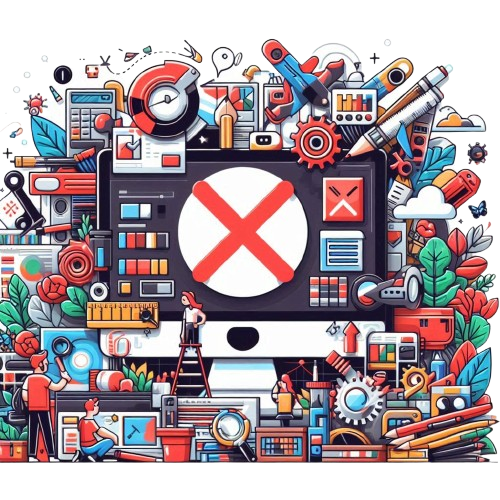
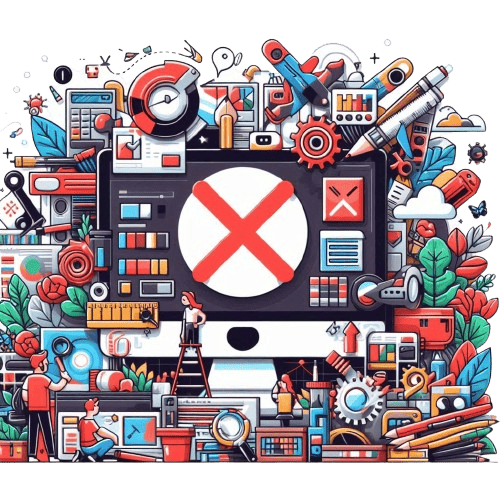
comperssing images;contrast fixing

diff --git a/service.html b/service.html
@@ -83,15 +83,15 @@
         <nav class="nav">
             <ul>
                 <li><a href="home.html">Accueil</a></li>
-                <li><a href="service.html"> <span class="active">Nos Services</span></a></li>
+                <li><a href="service.html"> <span class="actives">Nos Services</span></a></li>
                 <li><a href="work.html">Nos Travaux</a></li>
                 <li><a href="Contact.html">Contactez Nous</a></li>
             </ul>
         </nav>
         <div class="right-section">
-            <button class="login-button" id="login-button">Connexion</button>
-            <input type="text" class="search-bar" placeholder="Rechercher...">
-            <label for="entrez">.</label>
+            <button class="login-buttons" id="login-button">Connexion</button>
+            <input type="text" class="search-bar" placeholder="Rechercher..." id="entrez">
+            <label for="entrez">`</label>
         </div>
         <div class="burger-menu" onclick="toggleMobileMenu()">
             <div class="burger-icon">

diff --git a/css/style.css b/css/style.css
@@ -60,7 +60,7 @@ font-size: large;
   align-items: center;
 }
 
-.login-button {
+.login-buttons {
   padding: 10px 15px;
   background-color: #00438A; 
   color: white;
@@ -71,7 +71,7 @@ font-size: large;
   transition: background-color 0.3s;
 }
 
-.login-button:hover {
+.login-buttons:hover {
   background-color: #002b58;
 }
 
@@ -281,8 +281,8 @@ animation: slideshow 21s infinite 18s;
   max-width: 100%;
 }
 
-.active{
-color:#00438A ;
+.actives{
+color:#00458F ;
 }
 
 .br_serv{
@@ -301,6 +301,7 @@ color:#00438A ;
   padding-top: 20px;
   font-size: 35px;
 }
+
 
 /* .sec_serv{
   margin-bottom: 50px;
@@ -429,15 +430,11 @@ margin: 10px;
 
 
 @media (max-width:1040px){
-.who .title{
-margin-left: 300px;
+.who h1{
+ margin-left: 200px;
+ padding: 0px;
 }
-.who .sec1 p{
-width: 90%;
-}
-.who .sec1 img{
-margin-left: 30%;
-}
+
 }
 
 @media (max-width:1510px){
@@ -481,5 +478,7 @@ margin-left: 30%;
   .work img{
     display: none;
   }
+
+
 
 }

diff --git a/home.html b/home.html
@@ -81,13 +81,13 @@
         </div>
         <nav class="nav">
             <ul>
-                <li><a href="home.html"> <span class="active">Accueil</span></a></li>
+                <li><a href="home.html"> <span class="actives">Accueil</span></a></li>
                 <li><a href="service.html">Nos Services</a></li>
                 <li><a href="work.html">Nos Travaux</a></li>
                 <li><a href="Contact.html">Contactez Nous</a></li>
             </ul>
         </nav>
-        <button class="login-button" id="login-button">Connexion</button>
+        <button class="login-buttons" id="login-button">Connexion</button>
         <input type="text" class="search-bar" placeholder="Rechercher...">
             <label for="entrez">.</label>
         </div>

diff --git a/css/C1.Css b/css/C1.Css
@@ -295,7 +295,7 @@ body {
 }
 
 .footer-links a {
-    color: #007BFF; /* Link color from code 2 */
+    color: #70B5FF; /* Link color from code 2 */
 }
 
 .footer-links a:hover {
